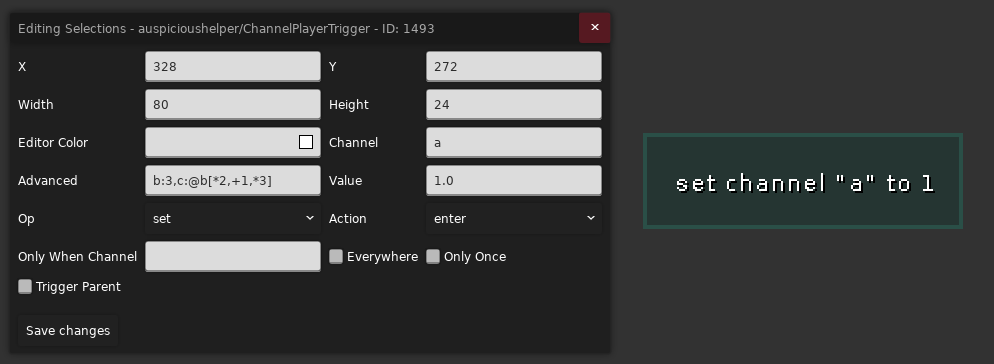
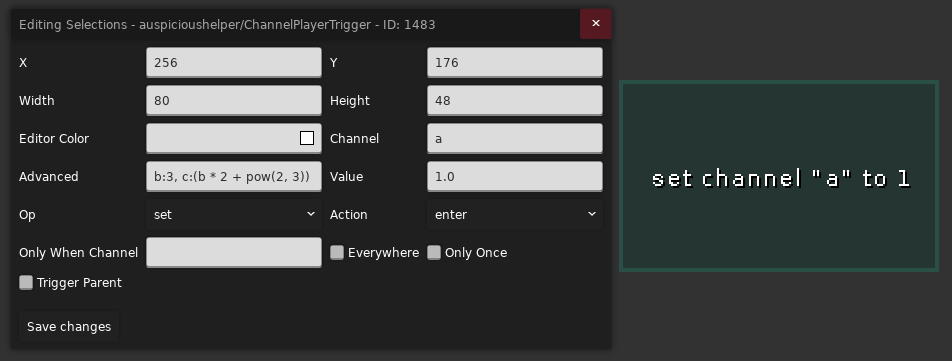
ausp

diff --git a/docs/mappings/useful_helpers/auspicious.md b/docs/mappings/useful_helpers/auspicious.md
@@ -9,7 +9,7 @@
 
 ausp 提供了一系列模板让你非常方便的把一些对象变成另一个东西
 
-比如我们要把把 `Booster` 和 `Refill` 变成果冻, 只需要用 `Connected Container` 将需要影响的对象框住
+比如我们要把 `Booster` 和 `Refill` 变成果冻, 只需要用 `Connected Container` 将需要影响的对象框住
 
 > ausp 自己的模板砖不用框
 
@@ -24,28 +24,50 @@ ausp 提供了一系列模板让你非常方便的把一些对象变成另一个
 ![02](../../assets/mappings/useful_helpers/auspicious/02.png)
 
 ### 其他 Template 模板
-* [`Behavior Chain`](https://www.bilibili.com/video/BV1ZVHp6EEcd/?t=418): 组装用的模板, 默认情况下框内只能放一个模板, 如果要放多个则要用 `Behavior Chain` 组装 (别把子节点放在框内了)
+
+* [`Behavior Chain`](https://www.bilibili.com/video/BV1ZVHp6EEcd/?t=418): 组装用的模板, 默认情况下框内只能放一个模板, 如果要放多个则要用 `Behavior Chain` 组装
+  (别把子节点放在框内了)
+
+#### 状态
+
+* [`Dream Block Modifier`](https://www.bilibili.com/video/BV1ZVHp6EEcd/?t=10): 果冻模板
 * [`Belt`](https://www.bilibili.com/video/BV1jVHp6EE17/?t=108): `FireBall` 循环火球模板
 * [`Cloud`](https://www.bilibili.com/video/BV1ZVHp6EEcd/?t=92): 云朵模板
 * [`Kevin`](https://www.bilibili.com/video/BV1ZVHp6EEcd/?t=117): Kevin 模板
 * [`Rotator`](https://www.bilibili.com/video/BV1ZVHp6EEcd/?t=139): 旋转模板, 将内容复制并均匀放在圆周上[缓动](https://easings.net/zh-cn)旋转 (喜欢煤球的有福了)
-* [`Holdable`](https://www.bilibili.com/video/BV1ZVHp6EEcd/?t=171): 可抓取物模板 
-* [`Ice Block`](https://www.bilibili.com/video/BV1ZVHp6EEcd/?t=200): 冰块模板 
-* [`Zip Mover`](https://www.bilibili.com/video/BV1ZVHp6EEcd/?t=217): 红绿灯模板 
-* [`Block`](https://www.bilibili.com/video/BV1ZVHp6EEcd/?t=238): 碎裂块模板 
-* [`Fake Wall`](https://www.bilibili.com/video/BV1ZVHp6EEcd/?t=254): 假墙模板 
-* [`Moon Block`](https://www.bilibili.com/video/BV1ZVHp6EEcd/?t=280): 月亮块模板 
-* [`Move Block`](https://www.bilibili.com/video/BV1ZVHp6EEcd/?t=302): 移动块模板 
-* [`Swap Block`](https://www.bilibili.com/video/BV1ZVHp6EEcd/?t=320): `Swap Block` 模板 
-* [`Push Block`](https://www.bilibili.com/video/BV1ZVHp6EEcd/?t=345): `Push Block` 模板 (类似草莓酱里的[霜冻碎片里的实体](https://www.bilibili.com/video/BV1sL411y7gY/?p=2&t=5)) 
+* [`Holdable`](https://www.bilibili.com/video/BV1ZVHp6EEcd/?t=171): 可抓取物模板
+* [`Ice Block`](https://www.bilibili.com/video/BV1ZVHp6EEcd/?t=200): 冰块模板
+* [`Zip Mover`](https://www.bilibili.com/video/BV1ZVHp6EEcd/?t=217): 红绿灯模板
+* [`Block`](https://www.bilibili.com/video/BV1ZVHp6EEcd/?t=238): 易碎块模板
+* [`Fake Wall`](https://www.bilibili.com/video/BV1ZVHp6EEcd/?t=254): 假墙模板
+* [`Moon Block`](https://www.bilibili.com/video/BV1ZVHp6EEcd/?t=280): 月亮块模板
+* [`Move Block`](https://www.bilibili.com/video/BV1ZVHp6EEcd/?t=302): 移动块模板
+* [`Swap Block`](https://www.bilibili.com/video/BV1ZVHp6EEcd/?t=320): `Swap Block` 模板
+* [`Push Block`](https://www.bilibili.com/video/BV1ZVHp6EEcd/?t=345): `Push Block` 模板 (类似草莓酱里的[霜冻碎片里的实体](https://www.bilibili.com/video/BV1sL411y7gY/?p=2&t=5))
 * [`Falling Block`](https://www.bilibili.com/video/BV1ZVHp6EEcd/?t=396): 掉落块模板
-* [`Static Mover`](https://www.bilibili.com/video/BV1ZVHp6EEcd/?t=494): 附着模板, 类似 [Eevee Helper 的 Attached Container](./eevee.md#attached-container)
-* 其他: 待施工
+* [`Entity Modifier`](https://www.bilibili.com/video/BV1twpc6gE3v/?t=128): 实体状态修改模板, 修改可见性/激活性/碰撞/抖动
+  类似 [Eevee Helper 的 Flag Toggle Modifier](./eevee.md#flag-toggle-modifier)
+* [`Collision Modifier`](https://www.bilibili.com/video/BV1twpc6gE3v/?t=1204): 精细调整实体和模板是否可碰撞, 比如水母可以穿过但是玩家不行
+* [`Cassette Block`](https://www.bilibili.com/video/BV1twpc6gE3v/?t=1267): 节奏块模板, 相关的有节奏块改色 `Cassette Color` 模板, 和 `Cassette Manager Simple` 节奏模板管理器
 
+#### 运动
+
+* [`Static Mover`](https://www.bilibili.com/video/BV1ZVHp6EEcd/?t=494): 附着模板, 类似 [Eevee Helper 的 Attached Container](./eevee.md#attached-container)
+* [`Gluable`](https://www.bilibili.com/video/BV1twpc6gE3v/?t=1016): 附着/跟随模板, 类似 [Eevee Helper 的 Attached Container](./eevee.md#attached-container)
+* [`Gate Mover`](https://www.bilibili.com/video/BV1twpc6gE3v/?t=4): 步进模板, 主节点和子节点定义了移动的方向和距离, 每次对应 Channel 不为 0 时, 使房间内最近的 Template 向前面定义的方向移动一次
+* [`Displacer`](https://www.bilibili.com/video/BV1twpc6gE3v/?t=95): 置换模板, 将模板整体移动到对应节点位置
+* [`Channel Mover`](https://www.bilibili.com/video/BV1twpc6gE3v/?t=865): 移动模板, 根据 Channel 的数值在节点之间移动
+
+#### 交互
+
+* [`Dashhit`](https://www.bilibili.com/video/BV1twpc6gE3v/?t=270): 冲刺碰撞交互模板
+* [`Resetter`](https://www.bilibili.com/video/BV1twpc6gE3v/?t=921): 重置模板, 可以销毁和生成 Template
+* [`Trigger Modifier`](https://www.bilibili.com/video/BV1twpc6gE3v/?t=972): 触发模板, 接收到非零 Channel 后会触发可触发的模板, 比如掉落块, 易碎块之类的 (有的模板需要勾选
+  `Triggerable`)
 
 ## Channel
 
-[Flag](../flag/flag.md) 只能表示有和无两种状态, 而 Channel 引入了数字, 这样我们可以就把数值绑定到对应名字的 Channel 上, 像下面这样
+[Flag](../flag/flag.md) 只能表示有和无两种状态, 而 Channel 引入了数字, 这样我们就可以把数值绑定到对应名字的 Channel 上, 像下面这样
 
 ![04](../../assets/mappings/useful_helpers/auspicious/04.png)
 
@@ -55,14 +77,13 @@ ausp 提供了一系列模板让你非常方便的把一些对象变成另一个
 
 ![03](../../assets/mappings/useful_helpers/auspicious/03.png)
 
-后续对于一些 [Template](#template), 他们的属性可能会带有 `Channelable` 字样, 表示该属性既可以是一个固定的值, 也可以是你填入的 Channel 对应的动态的值,
-比如这里的 `Speed` 属性就可以接收一个 Channel, 所以我们将 awa 绑定上去, 这样该移动块后续的移动速度就会变成 `10px/s` 了
+后续对于一些 [Template](#template), 它们的属性可能会带有 `Channelable` 字样, 表示该属性既可以是一个固定的值, 也可以是你填入的 Channel 对应的动态的值, 比如这里的 `Speed` 属性就可以接收一个
+Channel, 所以我们将 awa 绑定上去, 这样该移动块后续的移动速度就会变成 `10px/s` 了
 
 <div class="admonition note">
     <p class="admonition-title">注意</p>
     <p>Channel 对应的数值会在玩家死亡后重置, 切板不会</p>
 </div>
-
 
 ### Trigger
 
@@ -76,7 +97,8 @@ ausp 提供了一系列模板让你非常方便的把一些对象变成另一个
 
 * `Channel`: 你要设置的 Channel 名字, 比如这里是 `a`
 * `Value`: 你要设置的 Channel 对应的数值
-* `Advanced`: 该 Trigger 触发后额外设置里面的内容用逗号分隔, 比如这里的 `b:3,c:@b[*2,+1,*3]` 表示将 `Channel b` 设置成 `3`, 将 `Channel c` 设置成 `Channel b` 乘二加一再乘三也就是 `21`, 更高级的写法请参考[高级表达式](#advanced-expression)
+* `Advanced`: 该 Trigger 触发后额外设置里面的内容用逗号分隔, 比如这里的 `b:3, c:(b * 2 + pow(2, 3))` 表示将 `Channel b` 设置成 `3`, 将 `Channel c` 设置成 `{Channel b} * 2 + 8` 也就是
+  `14`, 更高级的写法请参考[高级表达式](#advanced-expression)
 * `Action`: Trigger 触发方式
 * `Op`: 用于决定 `Value` 的计算方式
     * `set`: 表示直接将对应 Channel 设置为 `Value`, 即 `channel = Value`
@@ -94,7 +116,7 @@ ausp 提供了一系列模板让你非常方便的把一些对象变成另一个
 
 ![06](../../assets/mappings/useful_helpers/auspicious/06.png)
 
-根据玩家位置和 `Position Mode` 使某个 Channel 在 From Channel 和 To Channel 之间 lerp
+根据玩家位置和 `Position Mode` 使某个 Channel 在 From Channel 和 To Channel 之间插值
 
 比如上方这个例子如果移动块速度绑定到 `awa` Channel 上, 那么我们在该 Trigger 内就可以调整位置使 `awa` 在 `0 ~ 100` 之间变化
 
@@ -102,48 +124,169 @@ ausp 提供了一系列模板让你非常方便的把一些对象变成另一个
 
 ![07](../../assets/mappings/useful_helpers/auspicious/07.png)
 
-根据玩家玩家在 Trigger 内的相对位置, 在 X/Y 两个维度上分别返回 `0 ~ 1` 之间的值并分别存入 `X Channel` 和 `Y Channel`
+根据玩家在 Trigger 内的相对位置, 在 X/Y 两个维度上分别返回 `0 ~ 1` 之间的值并分别存入 `X Channel` 和 `Y Channel`
 
-`Path` 表示要跟踪的对象, 默认为玩家 `player`, 如果你要跟踪其他对象, 比如这里的水母, 你需要在场上放置一个 `Entity Marker` 实体, 
-并在 `Path` 属性处填入对应[实体的 ID](../loenn/faq.md#entity-id), 并在 `Identifier` 随意填入一个特殊的名字即可, 
-之后在 `Channel Position Trigger` 的 `Path` 属性中填入 `Entity Marker` 的 `Path` 就可以跟踪对应实体了
+`Path` 表示要跟踪的对象, 默认为玩家 `player`, 如果你要跟踪其他对象, 比如这里的水母, 你需要在场上放置一个 `Entity Marker` 实体, 并在 `Path`
+属性处填入对应[实体的 ID](../loenn/faq.md#entity-id), 并在 `Identifier` 随意填入一个特殊的名字即可, 之后在 `Channel Position Trigger` 的 `Path` 属性中填入 `Entity Marker` 的 `Path`
+就可以跟踪对应实体了
 
-#### Channel Math Controller
+#### Channel Math Controller Trigger
 
 ![08](../../assets/mappings/useful_helpers/auspicious/08.png)
 
-你可以在酣畅淋漓的[少儿编程](https://cloudsbelow.neocities.org/celestestuff/visualmathcompiler) 后点击黄色方块编译拿到编码后的 Base64, 
-最后把它粘贴到 `Compiled Operations` 中即可
+你可以在酣畅淋漓的[少儿编程](https://cloudsbelow.neocities.org/celestestuff/visualmathcompiler) 后点击黄色方块编译拿到编码后的 Base64, 最后把它粘贴到 `Compiled Operations` 中即可
 
 ![09](../../assets/mappings/useful_helpers/auspicious/09.png)
 
[1 lines of base64/hex data omitted]
-对应的逻辑为, 当场景内有 `flagA` 的时候, 将 `acceleration` Channel 的数值设置为 `100` 并启用 `flagB`
[1 lines of base64/hex data omitted]
+`acceleration` Channel 的数值设置为 `100` 并启用 `flagB`
 
+![10](../../assets/mappings/useful_helpers/auspicious/10.png)
+
+又比如上方节奏块部分的音频切换一开始不用 `Cassette Manager Simple` 用 `Channel Math Controller Trigger` 的时候是这么写的, 表示名为 `note` 的 Channel 每过一秒会在 `0, 1, 2, 3`
+之间循环一步
 
 <a id="advanced-expression"></a>
 
-### [表达式](https://github.com/cloudsbelow/auspicioushelper/wiki/Channels#legacy-note)
+### [高级表达式](https://github.com/cloudsbelow/auspicioushelper/wiki/Channels#channel-expressions)
 
-| 写法                  | 参数 | 实际功能                 |
-|-----------------------|-----:|--------------------------|
-| `pi()`                |    0 | π                        |
-| `floor(x)`            |    1 | 向下取整                 |
-| `ceil(x)`             |    1 | 向上取整                 |
-| `round(x)`            |    1 | 四舍五入                 |
-| `exp(x)`              |    1 | `e^x`                    |
-| `ln(x)`               |    1 | 自然对数 `ln(x)`         |
-| `log(x)`              |    1 | `log₂(x)`                |
-| `sqrt(x)`             |    1 | 平方根                   |
-| `saturate(x)`         |    1 | 限制到 `[0,1]`           |
-| `max(x,y)`            |    2 | 最大值                   |
-| `min(x,y)`            |    2 | 最小值                   |
-| `pow(x,y)`            |    2 | `x^y`                    |
-| `clamp(x,a,b)`        |    3 | 限制到 `[a,b]`           |
-| `mix(f,a,b)`          |    3 | `f*a + (1-f)*b`          |
-| `when(f,a,b)`         |    3 | `f != 0 ? a : b`         |
-| `take(f,a,b)`         |    3 | `f < 1 ? a : b`          |
-| `take(f,a,b,c)`       |    4 | 根据 `f` 选择 4 个值之一 |
-| `take(f,a,b,c,d)`     |    5 | 根据 `f` 选择 5 个值之一 |
-| `take(f,a,b,c,d,e)`   |    6 | 根据 `f` 选择 6 个值之一 |
-| `take(f,a,b,c,d,e,g)` |    7 | 根据 `f` 选择 7 个值之一 |
+你可以像写代码一样写这些数学表达式, 然后用小括号 `()` 将它们包裹起来, 顺带一提你可以在名字前加上不同的符号表示访问不同的数值
+
+* `@`: 表示访问一个 Channel 的数值, 比如 `@channelA` (虽然新的表达式似乎不需要加 `@`)
+* `$`: 表示访问一个 Flag 对应的数值, 比如 `$flagB`, Flag 启用时对应 `1`, 反之对应 `0`
+* `?`: 表示访问一个 [Slider](./mapping_utils.md#counters) 对应的数值, 比如 `?sliderC`
+* `#`: 表示访问一个 [Counter](./mapping_utils.md#counters) 对应的数值, 比如 `#counterD`
+
+> 由于可能有些运算迁移到新版表达式的时候出了点小问题得等作者修, 所以如果你实在想用可以用[旧版表达式](#old-expression), 相对老旧但是更加稳定
+
+#### 基本运算符
+
+<table>
+    <thead>
+        <tr>
+            <th>写法</th>
+            <th>实际功能</th>
+        </tr>
+    </thead>
+    <tbody>
+        <tr>
+            <td><code>~x</code></td>
+            <td>按位取反</td>
+        </tr>
+        <tr>
+            <td><code>!x</code></td>
+            <td>逻辑非，<code>x != 0 ? 0 : 1</code></td>
+        </tr>
+        <tr>
+            <td><code>x ^ y</code></td>
+            <td>按位异或</td>
+        </tr>
+        <tr>
+            <td><code>x &amp; y</code></td>
+            <td>按位与</td>
+        </tr>
+        <tr>
+            <td><code>x | y</code></td>
+            <td>按位或</td>
+        </tr>
+        <tr>
+            <td><code>x + y</code></td>
+            <td>加法</td>
+        </tr>
+        <tr>
+            <td><code>x - y</code></td>
+            <td>减法</td>
+        </tr>
+        <tr>
+            <td><code>x * y</code></td>
+            <td>乘法</td>
+        </tr>
+        <tr>
+            <td><code>x / y</code></td>
+            <td>除法</td>
+        </tr>
+        <tr>
+            <td><code>x // y</code></td>
+            <td>整数除法</td>
+        </tr>
+        <tr>
+            <td><code>x % y</code></td>
+            <td>取模</td>
+        </tr>
+        <tr>
+            <td><code>x &gt; y</code></td>
+            <td>大于</td>
+        </tr>
+        <tr>
+            <td><code>x &lt; y</code></td>
+            <td>小于</td>
+        </tr>
+        <tr>
+            <td><code>x &gt;= y</code></td>
+            <td>大于等于</td>
+        </tr>
+        <tr>
+            <td><code>x &lt;= y</code></td>
+            <td>小于等于</td>
+        </tr>
+        <tr>
+            <td><code>x == y</code></td>
+            <td>等于</td>
+        </tr>
+        <tr>
+            <td><code>x != y</code></td>
+            <td>不等于</td>
+        </tr>
+        <tr>
+            <td><code>x &lt;&lt; y</code></td>
+            <td>左移</td>
+        </tr>
+        <tr>
+            <td><code>x &gt;&gt; y</code></td>
+            <td>右移</td>
+        </tr>
+    </tbody>
+</table>
+
+#### 函数
+
+| 写法                  | 参数 | 实际功能                                       |
+|-----------------------|-----:|------------------------------------------------|
+| `abs(x)`              |    1 | 绝对值                                         |
+| `ceil(x)`             |    1 | 向上取整                                       |
+| `floor(x)`            |    1 | 向下取整                                       |
+| `pi()`                |    0 | π                                              |
+| `round(x)`            |    1 | 四舍五入                                       |
+| `exp(x)`              |    1 | `e^x`                                          |
+| `ln(x)`               |    1 | 自然对数 `ln(x)`                               |
+| `log(x)`              |    1 | `log₂(x)`                                      |
+| `sqrt(x)`             |    1 | 平方根                                         |
+| `saturate(x)`         |    1 | 限制到 `[0,1]`                                 |
+| `max(x,y)`            |    2 | 最大值                                         |
+| `min(x,y)`            |    2 | 最小值                                         |
+| `pow(x,y)`            |    2 | `x^y`                                          |
+| `clamp(x,a,b)`        |    3 | 限制到 `[a,b]`                                 |
+| `mix(f,a,b)`          |    3 | `f*a + (1-f)*b`                                |
+| `when(f,a,b)`         |    3 | `f != 0 ? a : b`                               |
+| `take(f,a,b)`         |    3 | `f < 1 ? a : b` (`0 ~ 2` 平均分 2 份)          |
+| `take(f,a,b,c)`       |    4 | 根据 `f` 选择 3 个值之一 (`0 ~ 3` 平均分 3 份) |
+| `take(f,a,b,c,d)`     |    5 | 根据 `f` 选择 4 个值之一 (`0 ~ 4` 平均分 4 份) |
+| `take(f,a,b,c,d,e)`   |    6 | 根据 `f` 选择 5 个值之一 (`0 ~ 5` 平均分 5 份) |
+| `take(f,a,b,c,d,e,g)` |    7 | 根据 `f` 选择 6 个值之一 (`0 ~ 6` 平均分 6 份) |
+
+<a id="old-expression"></a>
+
+### [旧版表达式](https://github.com/cloudsbelow/auspicioushelper/wiki/Channels#legacy-note)
+
+你可以定义数学表达式的运算顺序, 然后用中括号 `[]` 将它们包裹起来, 比如
+
+1. `[+1, *2, +3, /2, floor, -1, << 3, -10, abs]`
+2. `[+2, +3, /2, floor, -1, << 3, -10, abs]`
+3. `[+5, /2, floor, -1, << 3, -10, abs]`
+4. `[+2.5, floor, -1, << 3, -10, abs]`
+5. `[+2, -1, << 3, -10, abs]`
+6. `[+1, << 3, -10, abs]`
+7. `[+8, -10, abs]`
+8. `[-2, abs]`
+9. `[+2]`
+

diff --git a/docs/index.md b/docs/index.md
@@ -20,7 +20,7 @@
 `NaCline`, `Voidsd`, `WEGFan`, `icbm`, `忘记过去`, `OldmanG`, `浣熊`, `云雀`, `Harmonine`, `crylone`, `ShadowRo`,
 `I2170l`, `Aya Kasumu`, `春暮Q`, `Isanc`, `Hero_Broom`, `Power Master`, `ye-zi`, `小豹猫awa`,
 `仲久的落叶`, `聪明空空`, `DeepSheep`, `老哈`, `Hibana`, `RNF`, 
-`ziyang_51571`, `BadwayBear`, `飛飛` 直接或间接地给 Wiki 提供的灵感和帮助, 非常抱歉我可能落了一些人, 但我仍然**非常感谢**你们
+`ziyang_51571`, `BadwayBear`, `飛飛`, `Aura` 直接或间接地给 Wiki 提供的灵感和帮助, 非常抱歉我可能落了一些人, 但我仍然**非常感谢**你们
 
 **感谢**所有的教程制作者
 

diff --git a/docs/mappings/metadata/loenn_metadata.md b/docs/mappings/metadata/loenn_metadata.md
@@ -153,6 +153,8 @@
 如果你要自定义图标, 你需要将地图图标放置在上述位置中, 文件名字任意, 例如 `chap1.png`,
 然后在元数据中写上 `areas/{套文件夹}/chap1` 作为路径即可
 
+> 如果你在绘制图标的过程中感到困难, 这里有个[图标网站](https://game-icons.net/)可能可以减少你的工作量
+
 由于选中关卡时地图图标会从围巾上旋转平移至对应位置, 所以如果你要给图标添加背面的话, 
 在一旁放置一个以 `_back` 为后缀的同名文件即可, 如 `chap1_back.png` 
 

diff --git a/docs/mappings/useful_helpers/mapping_utils.md b/docs/mappings/useful_helpers/mapping_utils.md
@@ -41,7 +41,10 @@
 
 ### Counters
 
-跟 flag 类似, 但是相对不常用, 主要是计数用的, 官图里最多也就是用来记记死亡数啥的, 比如 9a 最后一面死多了 badeline 会出来安慰你这种
+跟 flag 类似, 但是相对不常用, 主要是计数用的
+
+* Counter: 记录整数, 官图里主要用来记记死亡数啥的, 比如 9a 最后一面死多了 badeline 会出来安慰你这种
+* Slider: 记录小数
 
 ### Channels
 

diff --git a/docs/mappings/graphics/graphics.md b/docs/mappings/graphics/graphics.md
@@ -4,6 +4,7 @@
 * [UnderDragon’s Repository 2.5](https://gamebanana.com/mods/427729): 素材包
 * [Spooooky's Asset Pack](https://gamebanana.com/mods/474010): 素材包 ([路径粘贴](https://spo0o0ky.github.io/SpooookyAssetPackBrowser/))
 * [Asset Drive Browser](https://maddie480.ovh/celeste/asset-drive): 更方便的浏览社区资源盘
+* [选关界面图标参考网站](https://game-icons.net/)
 
 ## 游戏开始前
 
